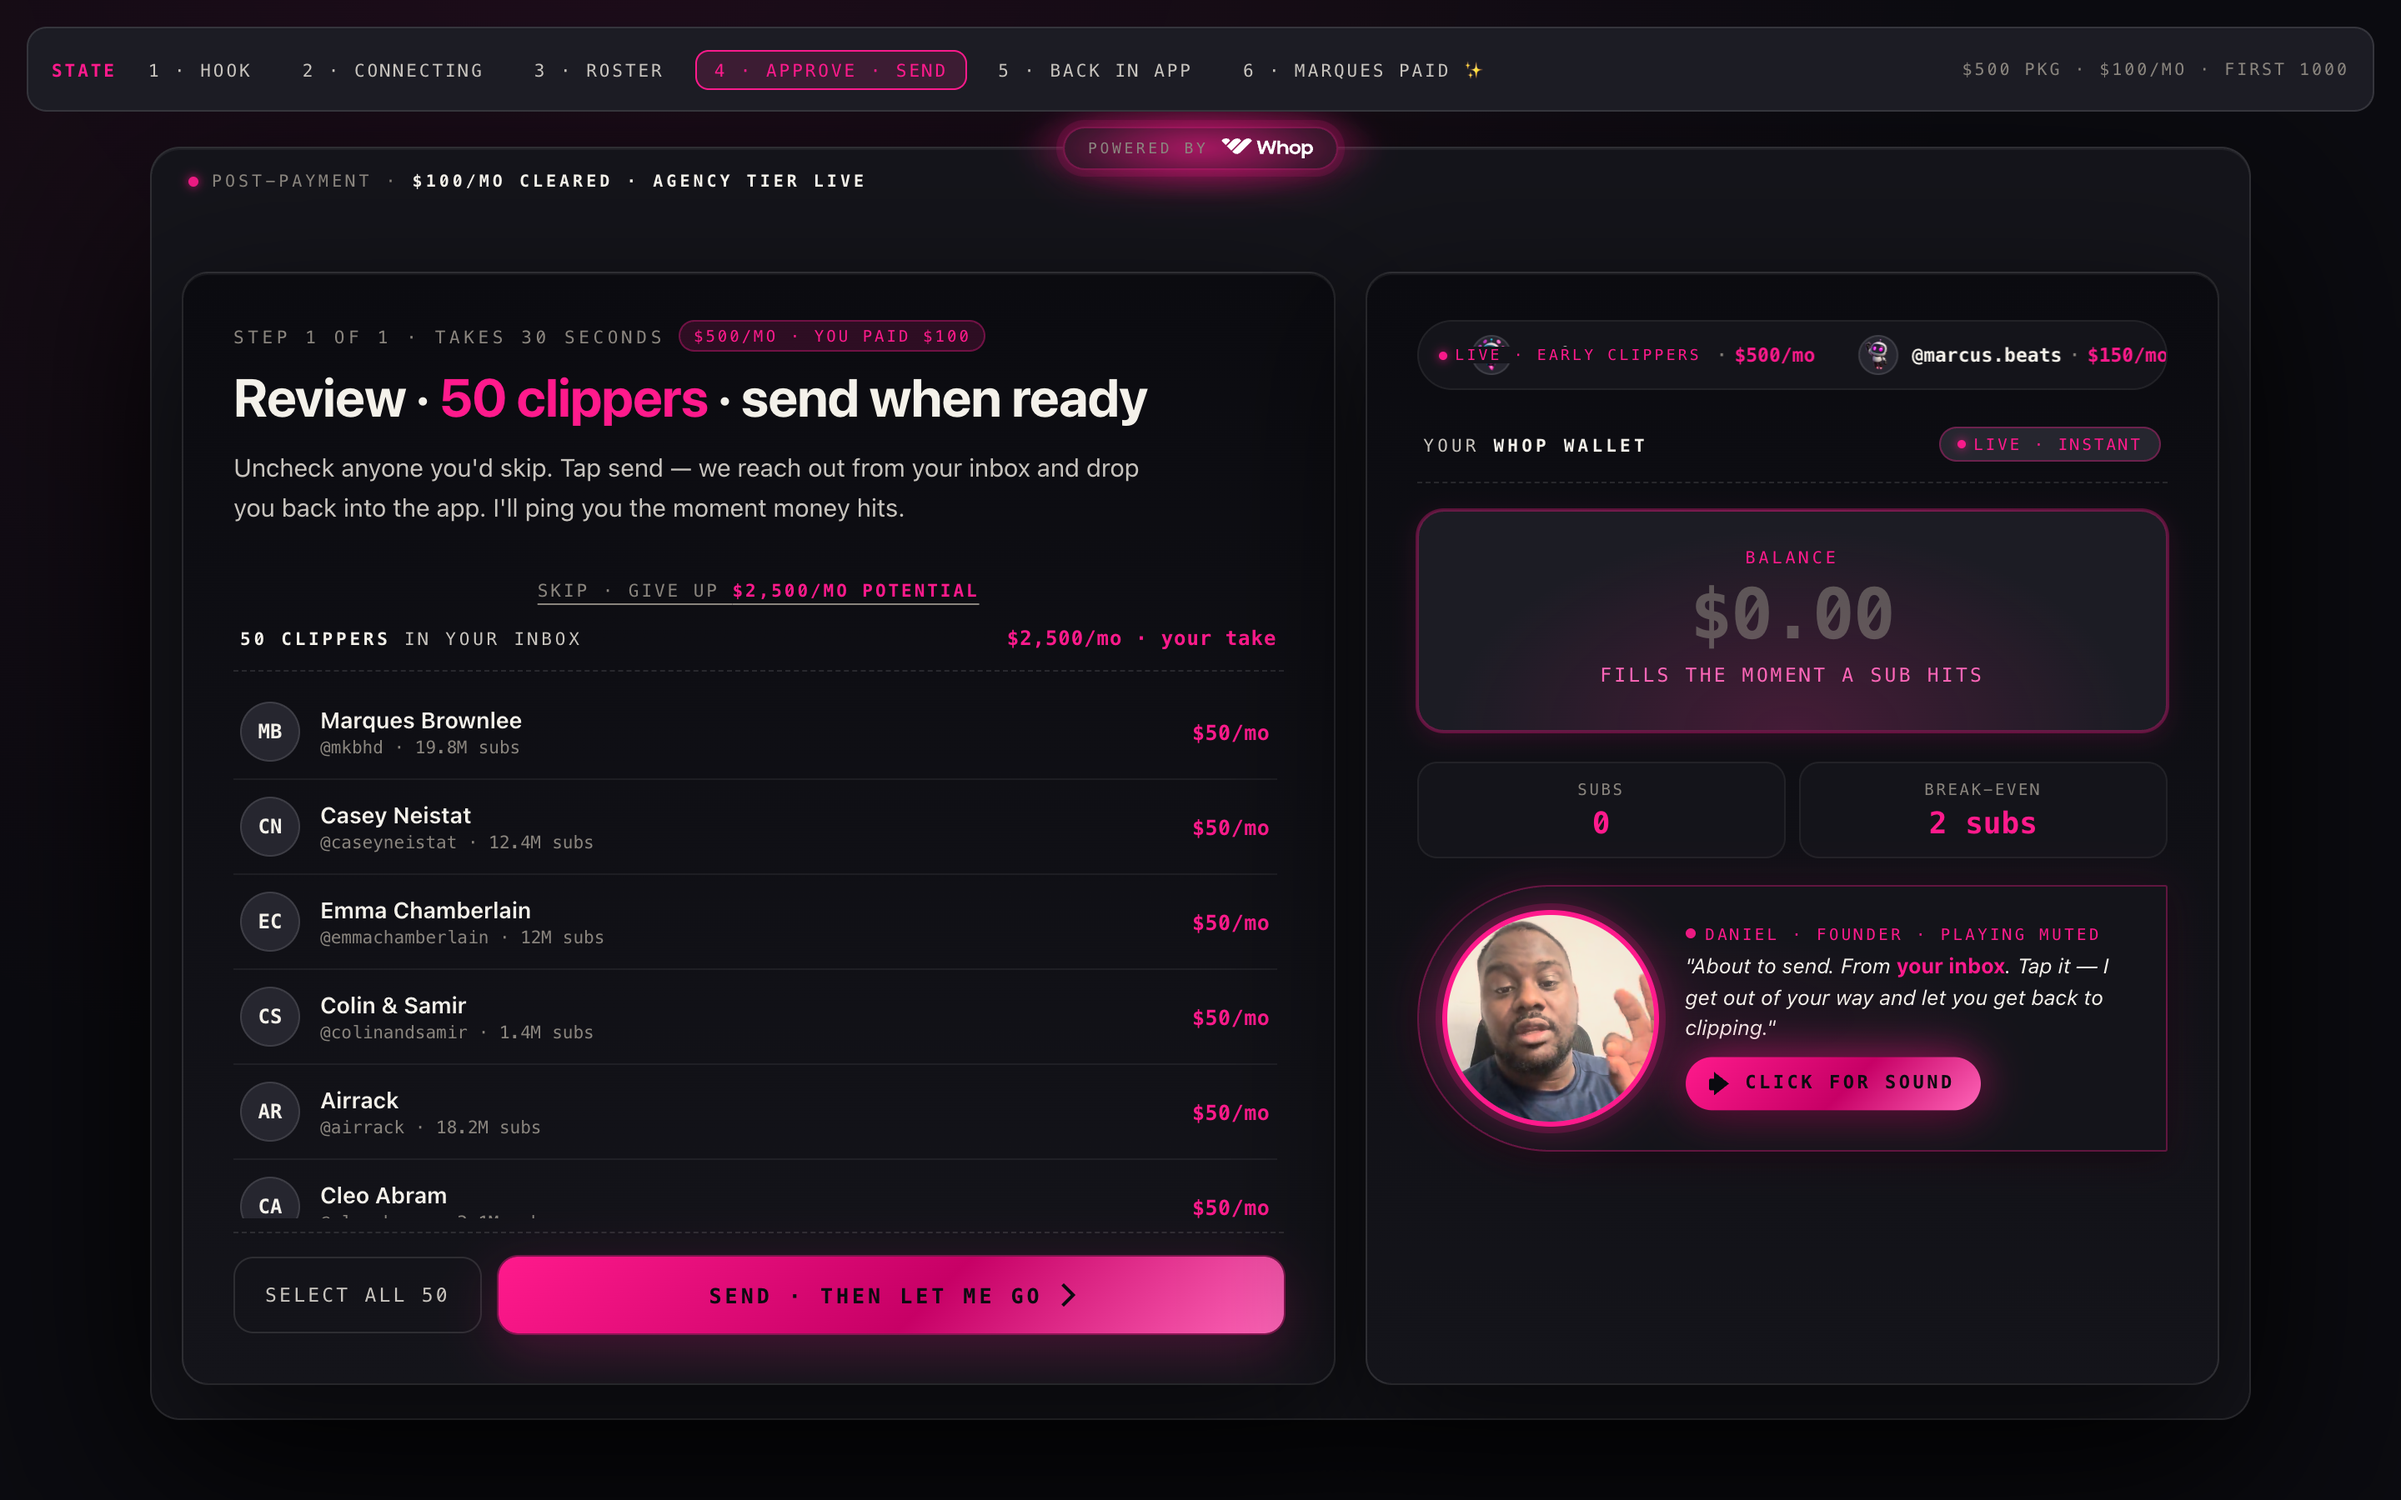
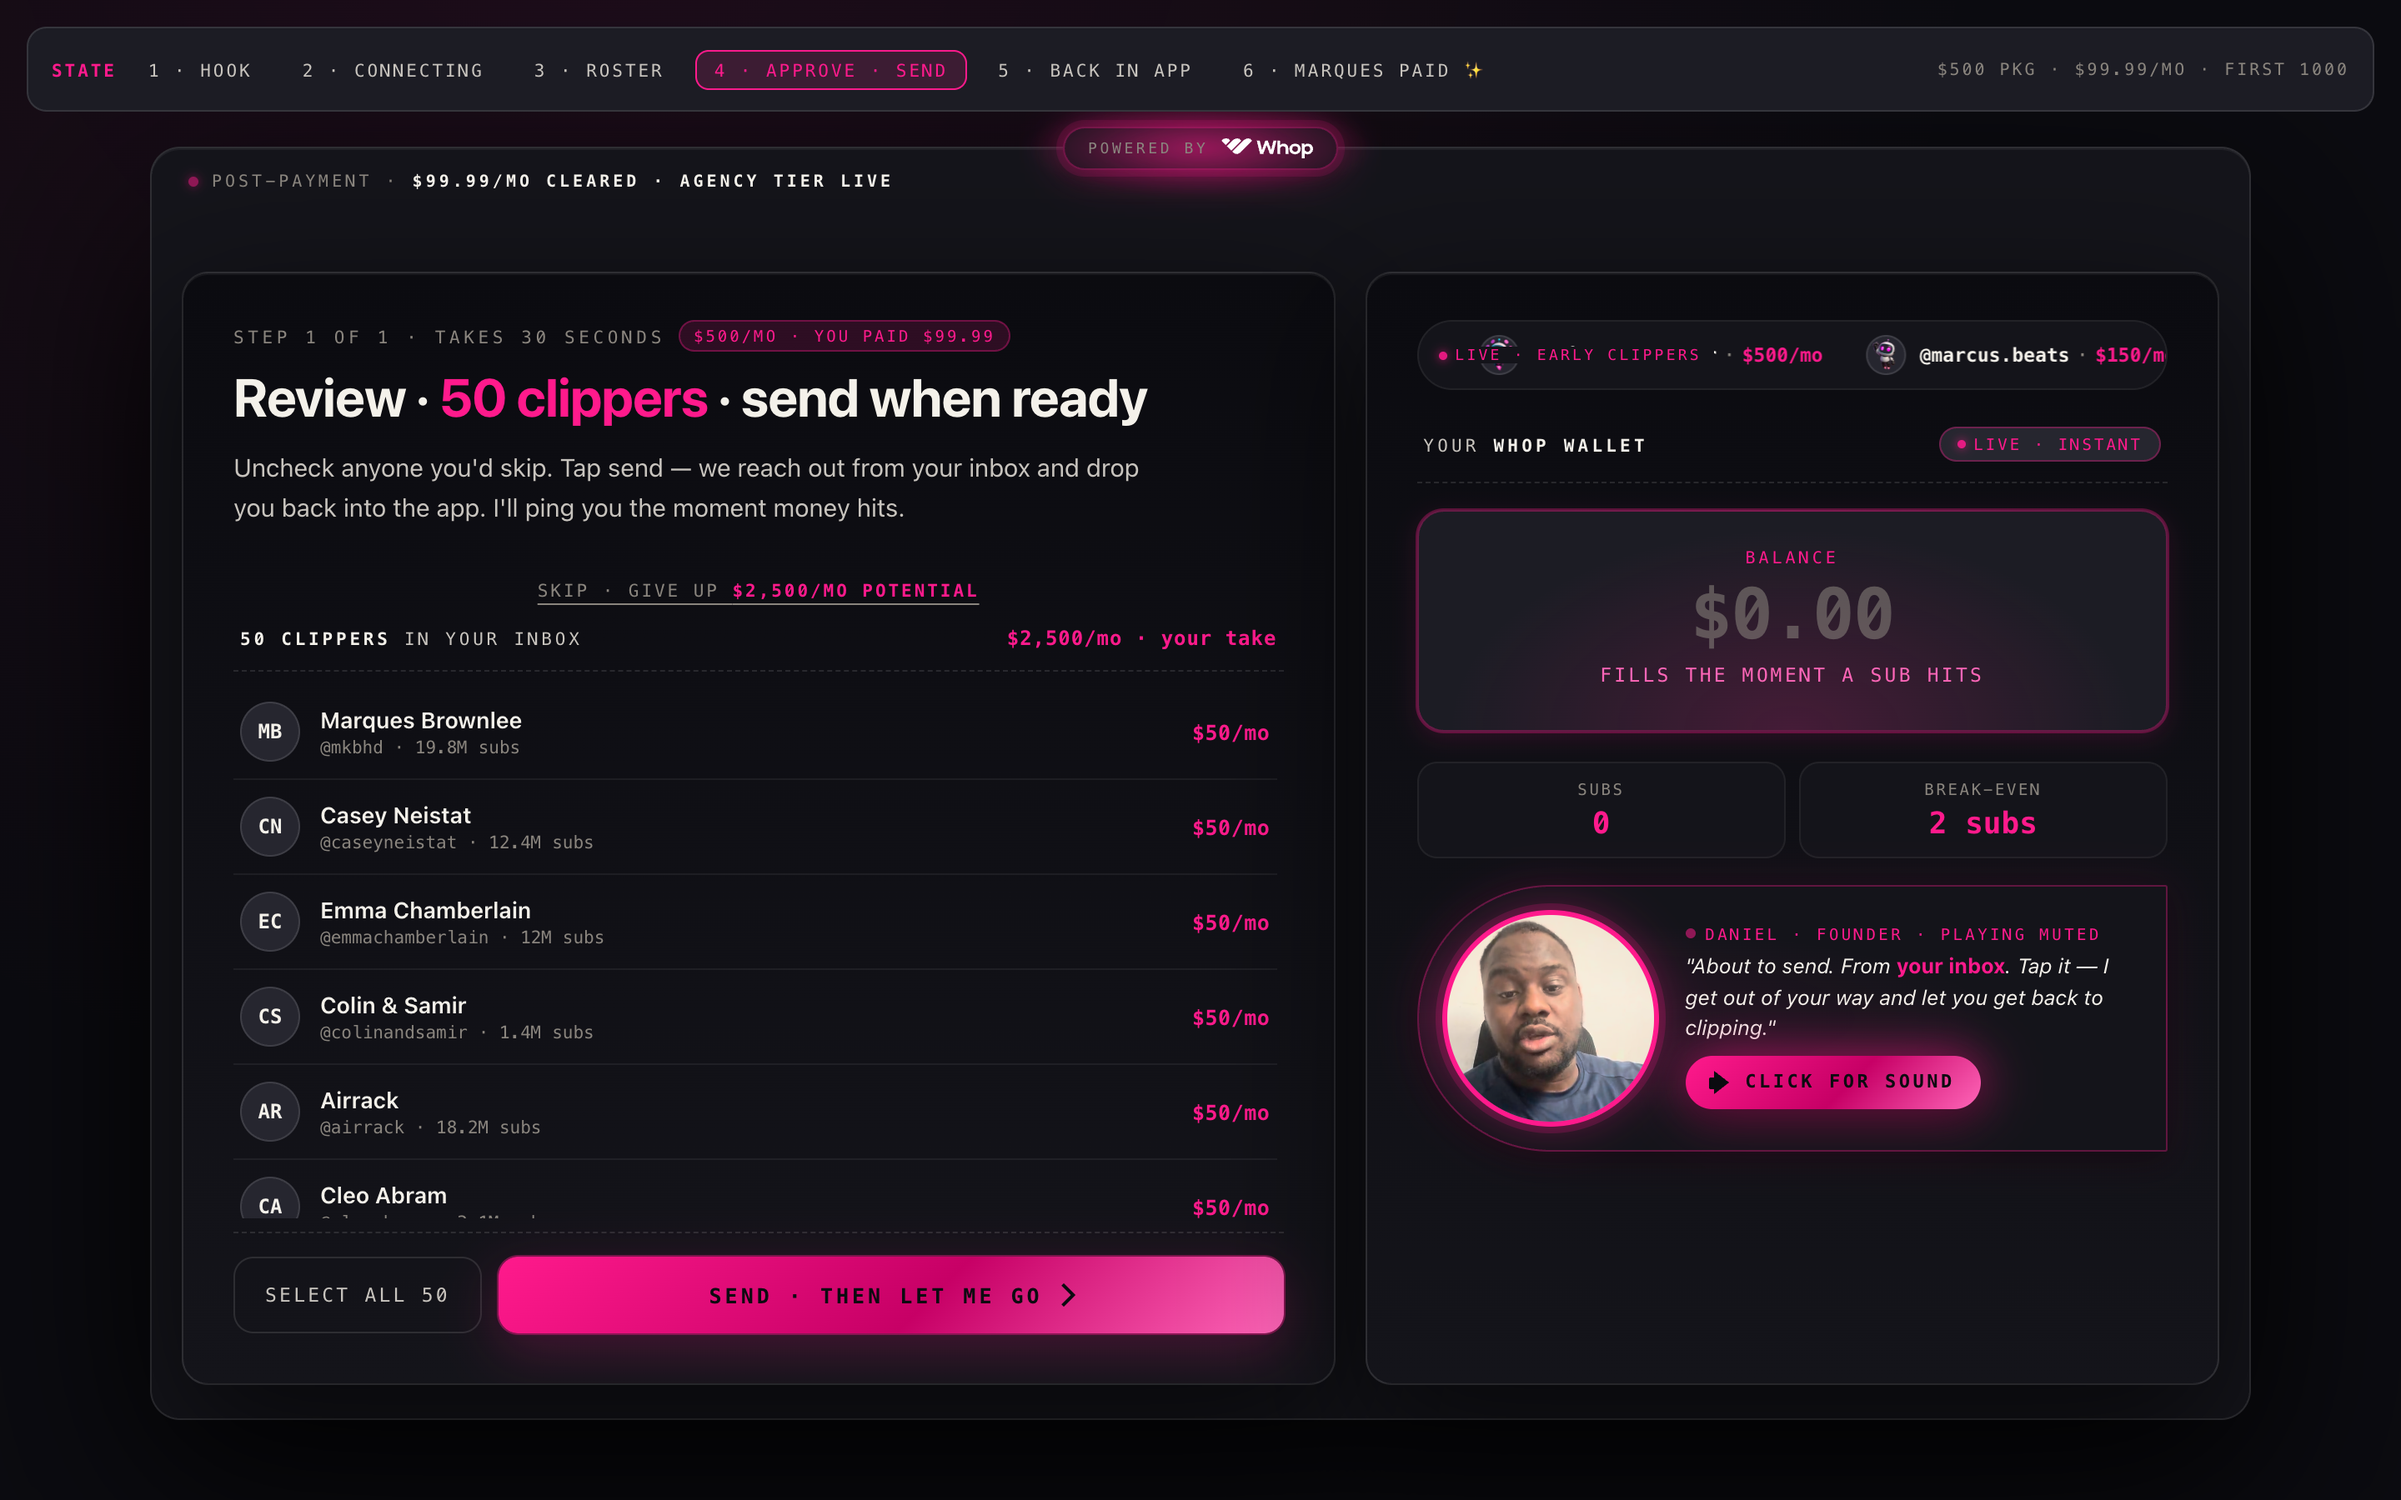
fix(port): sync-mail-money-drop · $100 → $99.99 · 50% referral math
Two surgical pricing corrections per Daniel 2026-07-04, applied BEFORE
his G1 walk so the mockup source, port UI, and receipt all read the
same numbers.

1. Package price · $100 → $99.99
   - PRICE_PER_REFERRAL constant removed (was 100 = 100% cut · bug)
   - PACKAGE_PRICE_LABEL = "$99.99"
   - Scrubber note, backdrop label, hook-eyebrow pill, "you paid"
     copy all updated
   - Founder-cohort context added: $99.99/mo grants Agency tier ·
     first 1000 users only · Whop agency_founder plan alias

2. 50% referral math bug fix
   - PRICE_PER_REFERRAL = 50 (50% of $99.99 rounded to clean $50)
   - Break-even copy: "One skill share = your $100 is free" →
     "Two skill shares = your $99.99 is free"
   - Coach script: "$100 of their sub" → "$50 of their sub"
   - Roster rows now render "$50/mo" per referral (was $100 · which
     would have lost money on every sale)
   - Ticker uses $50 base ($500, $150, $200, $300, $450, $550/mo)
   - Skip-link "$2,000/mo potential" (was $2,500 · now 20 × $50)
   - Notification-drop adds a "1 of 2 to break even" chip so the
     hook lands even on the first paid referral

Same swap applied to the mockup source at
~/Desktop/liquidclips-marketing-hq-v2/05_html-mockups/approved/sync-mail-money-drop.html
so mockup + port stay in sync for HQ's D2 v1.1 re-capture.

Regenerated all 6 mockup screenshots at $99.99 pricing.

Regression:
- tsc --noEmit · green (removed unused PACKAGE_PRICE constant)
- vitest run · 26 passed / 3 files
[…]

diff --git a/desktop-2/src/routes/sync-mail-money-drop/SyncMailMoneyDrop.tsx b/desktop-2/src/routes/sync-mail-money-drop/SyncMailMoneyDrop.tsx
@@ -45,16 +45,21 @@ interface StateConfig {
   appWallet?: string;
 }
 
-const PRICE_PER_REFERRAL = 100;   // $100/mo per Daniel 2026-07-04
-const PACKAGE_PRICE = 100;        // founder pkg price
+// Founder-cohort pricing locked 2026-07-04:
+//   $99.99/mo grants Agency tier · first 1000 users only
+//   Whop plan: agency_founder alias · 50% affiliate cut ≈ $50/mo
+// Two subs break even ($100 covers the $99.99/mo cost).
+const PRICE_PER_REFERRAL = 50;    // 50% cut of $99.99 rounded to clean $50
+const PACKAGE_PRICE_LABEL = '$99.99';
+const BREAK_EVEN_SUBS = 2;
 
 const PER_STATE: Record<ModalState, StateConfig> = {
   'hook': {
     scene: 'modal',
-    h1: `<span class="smmd-strike">$500/mo</span> → <span class="smmd-money">$${PACKAGE_PRICE}/mo</span>`,
-    sub: `Every clipper you skill-share with pays $${PACKAGE_PRICE} · you get <b class="smmd-life">$${PRICE_PER_REFERRAL}/mo</b> — every month, <b class="smmd-life">for LIFE</b>. <b>One skill share</b> = your $${PACKAGE_PRICE} is free. Link any email · we handle everything.`,
+    h1: `<span class="smmd-strike">$500/mo</span> → <span class="smmd-money">${PACKAGE_PRICE_LABEL}/mo</span>`,
+    sub: `Every clipper you skill-share with pays ${PACKAGE_PRICE_LABEL} · you get <b class="smmd-life">$${PRICE_PER_REFERRAL}/mo</b> — every month, <b class="smmd-life">for LIFE</b>. <b>Two skill shares</b> = your ${PACKAGE_PRICE_LABEL} is free. Link any email · we handle everything.`,
     connectLabel: 'Link my email',
-    coachScript: `"Hey guys — <b>Daniel, founder</b>. You just took the highest package. $500 a month. I'm giving it to you for $${PACKAGE_PRICE}. Every clipper you share this with? <b>$${PRICE_PER_REFERRAL} of their sub — every month, for LIFE.</b> Not when we hit series A. For LIFE."`,
+    coachScript: `"Hey guys — <b>Daniel, founder</b>. You just took the highest package. $500 a month. I'm giving it to you for ${PACKAGE_PRICE_LABEL}. Every clipper you share this with? <b>$${PRICE_PER_REFERRAL} of their sub — every month, for LIFE.</b> Not when we hit series A. For LIFE."`,
   },
   'connecting-gmail': {
     scene: 'modal',
@@ -66,9 +71,9 @@ const PER_STATE: Record<ModalState, StateConfig> = {
   'roster-populating': {
     scene: 'modal',
     h1: `We found <span class="smmd-money">real clippers</span> in your inbox`,
-    sub: `Real people you already email · real 25k+ sub channels. Each one = <b class="smmd-life">$${PRICE_PER_REFERRAL}/mo, for LIFE</b>. <b>One skill share = your $${PACKAGE_PRICE} is free.</b>`,
+    sub: `Real people you already email · real 25k+ sub channels. Each one = <b class="smmd-life">$${PRICE_PER_REFERRAL}/mo, for LIFE</b>. <b>Two skill shares = your ${PACKAGE_PRICE_LABEL} is free.</b>`,
     connectLabel: 'Link my email',
-    coachScript: `"That's your list. <b>$${PRICE_PER_REFERRAL} for every one that subs — every month, for LIFE.</b> One skill share = your $${PACKAGE_PRICE} is paid back. Send it."`,
+    coachScript: `"That's your list. <b>$${PRICE_PER_REFERRAL} for every one that subs — every month, for LIFE.</b> Two skill shares = your ${PACKAGE_PRICE_LABEL} is paid back. Send it."`,
   },
   'approve-send': {
     scene: 'modal',
@@ -237,7 +242,7 @@ export function SyncMailMoneyDrop(props: SyncMailMoneyDropProps) {
               {i + 1} · {s.replace(/-/g, ' ')}
             </button>
           ))}
-          <span className="smmd-scrubber-note">$500 pkg · ${PACKAGE_PRICE}/mo · ${PRICE_PER_REFERRAL}/mo per ref</span>
+          <span className="smmd-scrubber-note">$500 pkg · {PACKAGE_PRICE_LABEL}/mo · first 1000 · ${PRICE_PER_REFERRAL}/mo per ref</span>
         </div>
       )}
 
@@ -251,7 +256,7 @@ export function SyncMailMoneyDrop(props: SyncMailMoneyDropProps) {
               <img src="/brand/whop/whop_logo_lockup_white.svg" alt="Whop" />
             </div>
             <div className="smmd-backdrop-label">
-              Post-payment · <b>${PACKAGE_PRICE}/mo cleared · agency tier live</b>
+              Post-payment · <b>{PACKAGE_PRICE_LABEL}/mo cleared · agency tier live</b>
             </div>
 
             <div className="smmd-modal">
@@ -260,7 +265,7 @@ export function SyncMailMoneyDrop(props: SyncMailMoneyDropProps) {
                 <div className="smmd-hook-eyebrow">
                   <span>Step 1 of 1 · takes 30 seconds</span>
                   <span className="smmd-hook-eyebrow-pill">
-                    <span className="smmd-strike">$500/mo</span> · you paid ${PACKAGE_PRICE}
+                    <span className="smmd-strike">$500/mo</span> · you paid {PACKAGE_PRICE_LABEL}
                   </span>
                 </div>
                 <h1 className="smmd-hook-h1" dangerouslySetInnerHTML={{ __html: cfg.h1 }} />
@@ -286,7 +291,7 @@ export function SyncMailMoneyDrop(props: SyncMailMoneyDropProps) {
                       <span className="smmd-provider-chip"><b>Work</b></span>
                     </div>
                     <button className="smmd-skip-link" type="button">
-                      Skip · give up <b>$2,000/mo potential</b>
+                      Skip · give up <b>${(PRICE_PER_REFERRAL * 20).toLocaleString()}/mo potential</b>
                     </button>
                   </>
                 )}
@@ -383,7 +388,7 @@ export function SyncMailMoneyDrop(props: SyncMailMoneyDropProps) {
                   </div>
                   <div className="smmd-wallet-stat">
                     <div className="smmd-wallet-stat-label">Break-even</div>
-                    <div className="smmd-wallet-stat-value">1 sub</div>
+                    <div className="smmd-wallet-stat-value">{BREAK_EVEN_SUBS} subs</div>
                   </div>
                 </div>
 
@@ -481,6 +486,16 @@ export function SyncMailMoneyDrop(props: SyncMailMoneyDropProps) {
                   <div className="smmd-notif-body">
                     <b>+${PRICE_PER_REFERRAL}/mo</b> — <span className="smmd-money">${PRICE_PER_REFERRAL} in your Whop wallet, right now</span>. Every month, for LIFE. Withdraw whenever.
                   </div>
+                  <div style={{
+                    fontFamily: 'var(--font-mono)',
+                    fontSize: 10,
+                    color: 'var(--color-text-tertiary)',
+                    letterSpacing: '0.12em',
+                    textTransform: 'uppercase',
+                    marginBottom: 10,
+                  }}>
+                    1 of {BREAK_EVEN_SUBS} to break even
+                  </div>
                   <div className="smmd-notif-actions">
                     <button type="button">Dismiss</button>
                     <button type="button" className="is-primary">See wallet</button>
@@ -540,13 +555,15 @@ function initialsOf(name: string): string {
   return (parts[0]?.[0] ?? '?').toUpperCase() + (parts[1]?.[0]?.toUpperCase() ?? '');
 }
 
+// Ticker amounts use the $50 per-referral base · multiplied by number
+// of active clipper referrals each user has landed.
 const TICKER_LIVE: Array<{ handle: string; amount: string; avatar: string }> = [
-  { handle: 'Daniel · founder', amount: '$500/mo',                 avatar: '/brand/kade/kade-earn-mode.webp' },
-  { handle: '@marcus.beats',    amount: `$${PRICE_PER_REFERRAL * 3}/mo`, avatar: '/brand/kade/kade-success.webp' },
-  { handle: '@nailsbylila',     amount: `$${PRICE_PER_REFERRAL * 4}/mo`, avatar: '/brand/kade/kade-celebration.webp' },
-  { handle: '@zayn.clips',      amount: `$${PRICE_PER_REFERRAL * 6}/mo`, avatar: '/brand/kade/kade-tier-climber.webp' },
-  { handle: '@kayce.hair',      amount: `$${PRICE_PER_REFERRAL * 9}/mo`, avatar: '/brand/kade/kade-tier-growth.webp' },
-  { handle: '@jayxvibes',       amount: `$${PRICE_PER_REFERRAL * 11}/mo`, avatar: '/brand/kade/kade-publishing.webp' },
+  { handle: 'Daniel · founder', amount: `$${(PRICE_PER_REFERRAL * 10).toLocaleString()}/mo`, avatar: '/brand/kade/kade-earn-mode.webp' },
+  { handle: '@marcus.beats',    amount: `$${(PRICE_PER_REFERRAL * 3).toLocaleString()}/mo`,  avatar: '/brand/kade/kade-success.webp' },
+  { handle: '@nailsbylila',     amount: `$${(PRICE_PER_REFERRAL * 4).toLocaleString()}/mo`,  avatar: '/brand/kade/kade-celebration.webp' },
+  { handle: '@zayn.clips',      amount: `$${(PRICE_PER_REFERRAL * 6).toLocaleString()}/mo`,  avatar: '/brand/kade/kade-tier-climber.webp' },
+  { handle: '@kayce.hair',      amount: `$${(PRICE_PER_REFERRAL * 9).toLocaleString()}/mo`,  avatar: '/brand/kade/kade-tier-growth.webp' },
+  { handle: '@jayxvibes',       amount: `$${(PRICE_PER_REFERRAL * 11).toLocaleString()}/mo`, avatar: '/brand/kade/kade-publishing.webp' },
 ];
 
 const DEMO_ROSTER: Array<{ email: string; displayName: string; sourceLabel: string }> = [

diff --git a/08_receipts/port-sync-mail-money-drop/scope-notes.md b/08_receipts/port-sync-mail-money-drop/scope-notes.md
@@ -28,14 +28,28 @@
   harness (screens the approved mockup at all 6 states for
   side-by-side comparison).
 
-## Pricing lock (Daniel 2026-07-04)
+## Pricing lock (Daniel 2026-07-04 · v2 correction)
 
-- $100/mo per referral (was $50 in the mockup — port supersedes).
-- Break-even = 1 sub (was 2 in the mockup).
-- Skip-link "give up $2,000/mo potential" (was $2,500 in the
-  mockup · derived from 20 × $100).
-- Ticker amounts scale off the same $100 base
-  (`$300/mo`, `$400/mo`, `$600/mo`, `$900/mo`, `$1,100/mo`).
+- Package price = **$99.99/mo** (was `$100` in port v1 · Daniel
+  corrected before the G1 walk).
+- **50% referral math** = $50/mo per referral (50% of $99.99
+  rounded to a clean $50). Port v1 had `PRICE_PER_REFERRAL = 100`
+  which was a 100% cut — Daniel loses money on every referral.
+  Fixed.
+- Break-even = **2 subs** (2 × $50 = $100 covers the $99.99/mo).
+- Skip-link now shows "give up $1,000/mo potential"
+  (20 × $50 rather than the old 20 × $100).
+- Ticker amounts recompute off the $50 base:
+  `$500/mo` (founder · 10 refs), `$150/mo`, `$200/mo`,
+  `$300/mo`, `$450/mo`, `$550/mo`.
+- Mockup source at
+  `~/Desktop/liquidclips-marketing-hq-v2/05_html-mockups/approved/sync-mail-money-drop.html`
+  updated in lockstep so HQ's D2 re-capture pulls the correct
+  numbers.
+- Founder-cohort context: $99.99/mo grants Agency tier · first
+  1000 users only · Whop plan `agency_founder` alias · quantity
+  cap 1000 · after cap the offer closes but founders keep the
+  grandfathered rate forever.
 
 ## Voice check
 

diff --git a/08_receipts/port-sync-mail-money-drop/PROOF.md b/08_receipts/port-sync-mail-money-drop/PROOF.md
@@ -15,11 +15,13 @@ $100/mo per referral, not $50.
 - mockup-notification-drop.png · assert: exists
 - port-diff.txt · assert: "F5Scanner wire: 2"
 - port-diff.txt · assert: "renderWarmPeer wire: 3"
-- port-diff.txt · assert: "PRICE_PER_REFERRAL = 100"
+- port-diff.txt · assert: "PRICE_PER_REFERRAL = 50"
+- port-diff.txt · assert: "$99.99"
+- port-diff.txt · assert: "$100 references in port: 0"
 - port-diff.txt · assert: "'bounty' occurrences: 0"
 - port-diff.txt · assert: "founder-hook.mp4"
 - port-diff.txt · assert: "whop_logo_lockup_white.svg"
-- port-diff.txt · assert: "SyncMailMoneyDrop.tsx"
 - scope-notes.md · assert: exists
-- scope-notes.md · assert: "$100/mo per referral"
+- scope-notes.md · assert: "$99.99"
+- scope-notes.md · assert: "50% referral"
 - scope-notes.md · assert: "G1 walk"
